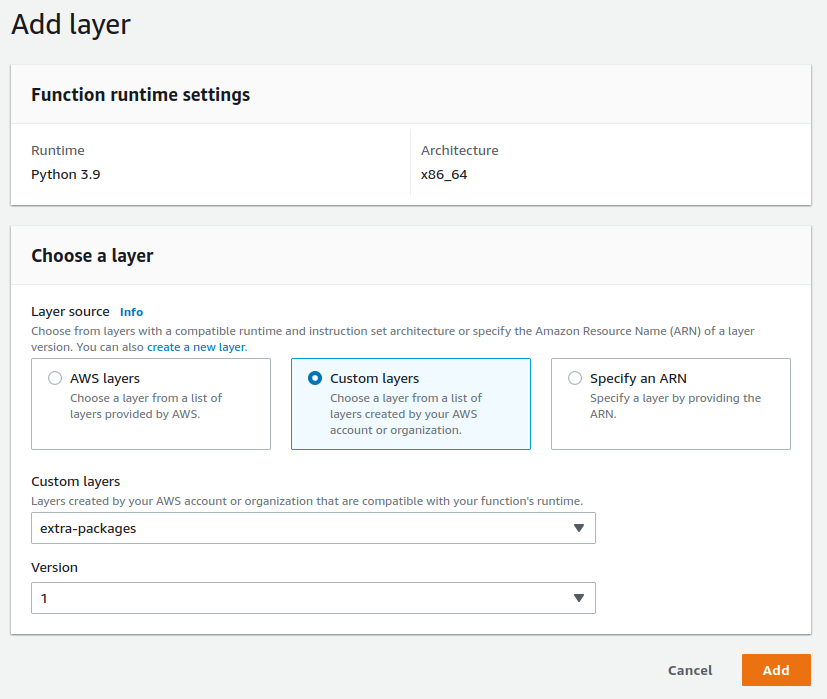
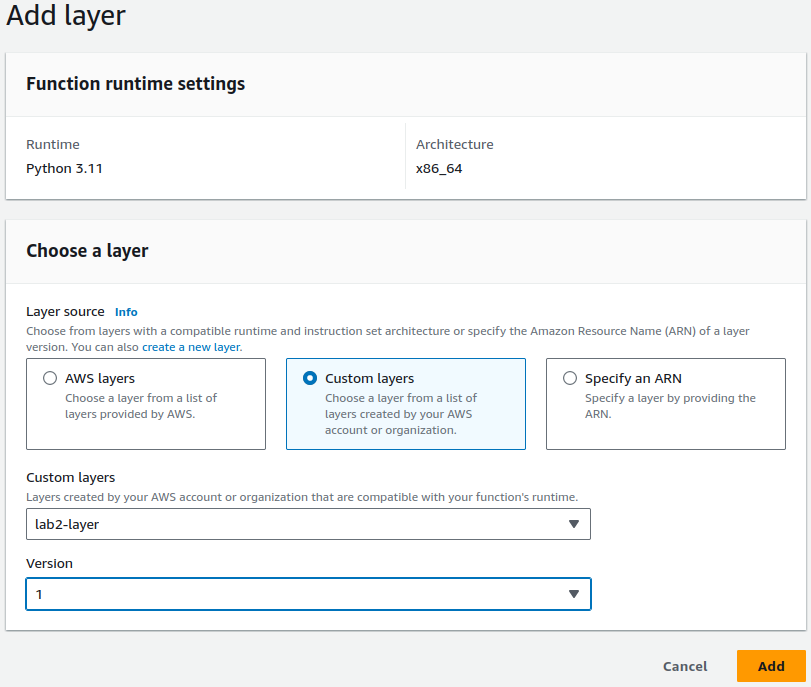
Updated instructions for Lab 1 and Lab 2

diff --git a/2_lambda/README.md b/2_lambda/README.md
@@ -2,19 +2,21 @@
 
 ## Description
 
-The code for the Lambda to retrieve current weather from OpenWeatherMap API
+In this lab we will create a new Lambda function in AWS Console to retrieve current weather from OpenWeatherMap API
 
 ## Deployment
 
-Create a new blank Lambda function in AWS console
+Search for the Lambda service in the list of services and create a new blank Lambda function
+
+![Lambda service search](/2_lambda/img/Lambda_service.png)
 
 ### Create a Lambda function
 
-Create a new Python Lambda by providing a name, latest Python runtime, choose create a new role with basic Lambda permissions
+Create a new Python Lambda by providing a name, latest Python runtime, choose to create a new role with basic Lambda permissions
 
 ![Lambda creation screen](/2_lambda/img/Lambda_create.png)
 
-After the Lambda has been created, copy source code in the editor window and click Deploy
+After the Lambda has been created, copy [source code](lambda_function.py) in the editor window and click Deploy
 
 ![Lambda adding code](/2_lambda/img/Add_code.png)
 
@@ -37,6 +39,28 @@ The layer will accept a .zip package containing libraries under directory named 
 
 ![Creating a layer](/2_lambda/img/Create_layer.png)
 
-After the layer has been uploaded, it can now be added back in the Lambda Layers section
+After the layer has been uploaded, it can now be added back in the Lambda Layers section (navigate back to the Lambda function created and look at the bottom of the Code tab)
 
 ![Adding a layer](/2_lambda/img/Add_layer.png)
+
+### Running the function
+
+Now that everything is set up, we can execute our function and see the results.
+
+![Running Lambda](/2_lambda/img/Lambda_run.png)
+
+Click on the Test button, the first execution will require you to create a test event.
+
+Since our Lambda needs to know the name of the city we would like to get the weather for, we can pass it in as part of the event
+
+![Creating test event](/2_lambda/img/Create_test_event.png)
+
+Now we can run our function with the test event and get the results
+
+![Run results](/2_lambda/img/Lambda_results.png)
+
+### Reading logs
+
+As an optional part of the lab, explore logs that Lambda creates in Cloudwatch. Those logs are created automatically by the Lambda based on the data being printed in the Lambda function.
+
+You can find the logs either by going to the Lambda Monitor tab and clicking on View CloudWatch logs or going to Cloudwatch service directly and look around to see if you can find the log group for your Lambda

diff --git a/1_local/README.md b/1_local/README.md
@@ -2,14 +2,47 @@
 
 ## Description
 
-Simple script to retrieve current weather from OpenWeatherAPI
+A simple script to test our ability to communicate with OpenWeatherMap API
 
 ## Usage
 
 Requires to have python3 installed
 
-Before running the script, set OpenMapAPI key as an environment variable **API_KEY**
+Before running the script, set OpenWeatherMap API key as an environment variable **API_KEY**
 
     export API_KEY=<MY_API_KEY>
 
-    python3 main.py London
+    python3 main.py "Dublin, IE"
+
+You should get output similar to this
+
+```
+Current weather in Dublin, IE:
+
+{'base': 'stations',
+ 'clouds': {'all': 75},
+ 'cod': 200,
+ 'coord': {'lat': 53.344, 'lon': -6.2672},
+ 'dt': 1699395179,
+ 'id': 2964574,
+ 'main': {'feels_like': 6.08,
+          'humidity': 82,
+          'pressure': 1004,
+          'temp': 8.27,
+          'temp_max': 9.44,
+          'temp_min': 6.85},
+ 'name': 'Dublin',
+ 'sys': {'country': 'IE',
+         'id': 2037117,
+         'sunrise': 1699342459,
+         'sunset': 1699375389,
+         'type': 2},
+ 'timezone': 0,
+ 'visibility': 10000,
+ 'weather': [{'description': 'broken clouds',
+              'icon': '04n',
+              'id': 803,
+              'main': 'Clouds'}],
+ 'wind': {'deg': 160, 'speed': 3.6}}
+
+```

diff --git a/README.md b/README.md
@@ -64,3 +64,5 @@ After installing, clone this repo for further references and being able to run t
 ### OpenWeather
 
 We will be using API calls to retrieve current weather conditions, so it would help to subscribe to https://openweathermap.org/ account and generate an API key
+
+Please note that it could take a bit of time to activate your API key, so it would be good to complete this step before the lab
